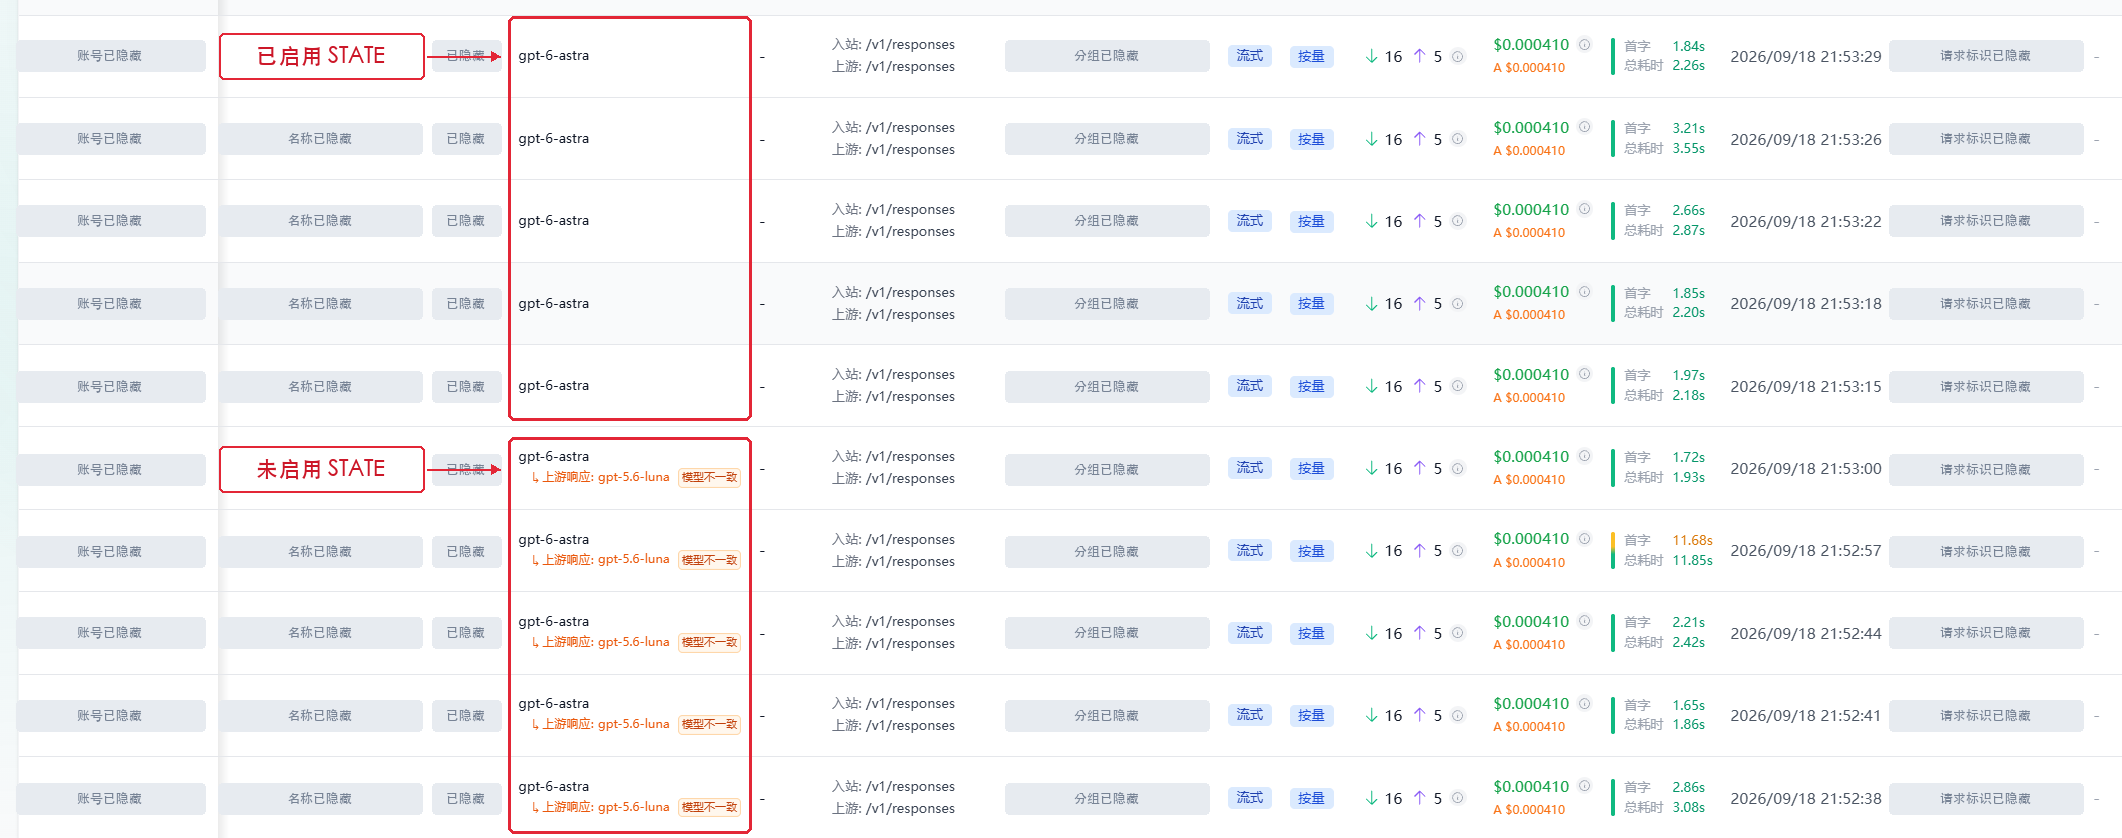
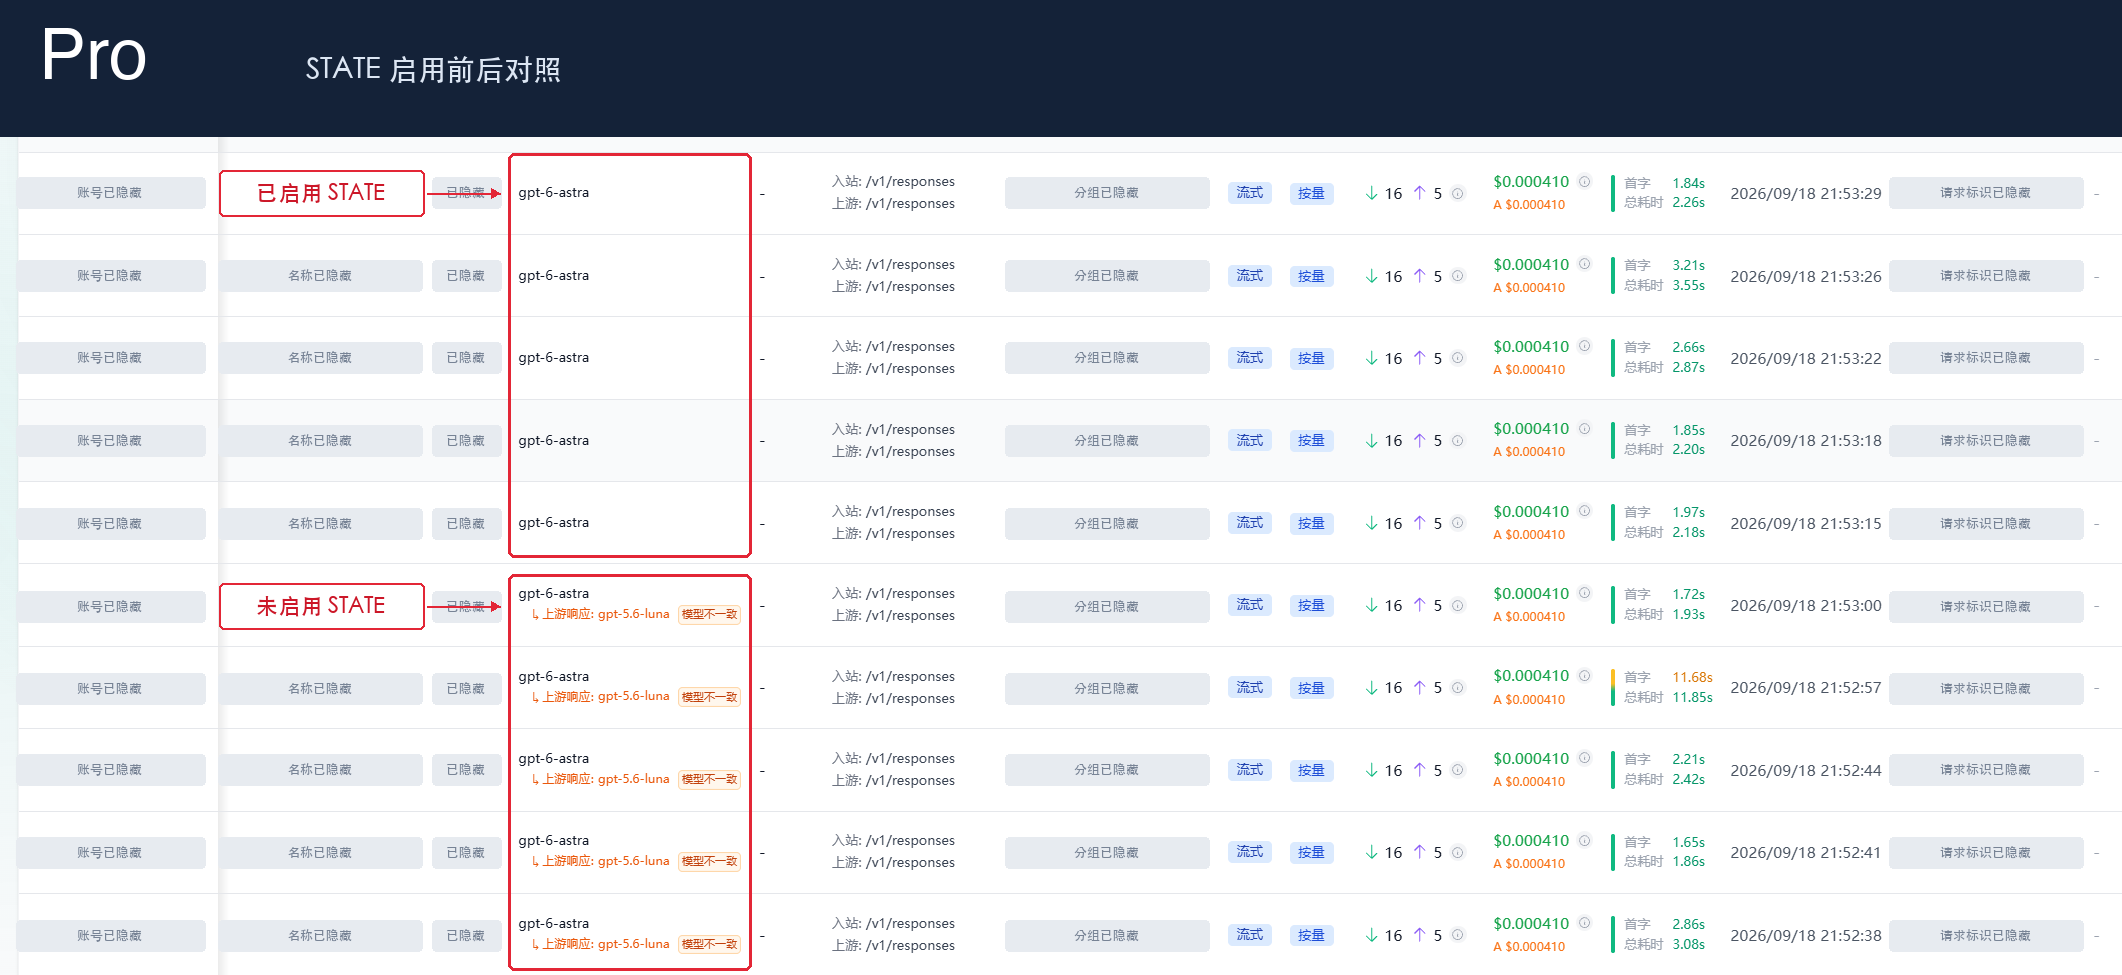
Replace screenshots with latest originals and large Team Pro headings

diff --git a/README.md b/README.md
@@ -24,17 +24,17 @@
 
 ## 使用前后，看图更直接
 
-下面是使用者提供的 **Team / Pro 对照截图**：原图上半部分为启用 STATE 后的请求，下半部分为未启用 STATE 的请求。保留原图的完整界面和上下顺序，用红框标出模型列，并标注“已启用 STATE / 未启用 STATE”。
+下面是这次更新的 **Team / Pro 原图**：原图上半部分为启用 STATE 后的请求，下半部分为未启用 STATE 的请求。保留原图的完整界面和上下顺序，用红框标出模型列，并标注“已启用 STATE / 未启用 STATE”。
 
-未启用时，日志显示请求 `gpt-6-astra`，上游响应为 `gpt-5.6-luna`，并标记“模型不一致”；启用后，这组截图里不再出现该标记。图片保持原始尺寸和界面布局，只添加红框、文字与必要的隐私遮挡；模型字段和请求记录顺序未改动。
+未启用时，日志显示请求 `gpt-6-astra`，上游响应为 `gpt-5.6-luna`，并标记“模型不一致”；启用后，这组截图里不再出现该标记。原图不缩放、不裁剪、不重排，顶部另加 Team / Pro 大标题，并添加红框、文字与必要的隐私遮挡；模型字段和请求记录顺序未改动。
 
 ### Team 对照
 
-![Team 原图：上半部分启用 STATE，下半部分未启用并显示上游 Luna 与模型不一致](docs/images/team-state-routing.png)
+![Team 原图：完整界面，上方启用 STATE、下方未启用并显示上游 Luna 与模型不一致](docs/images/team-state-routing.png)
 
 ### Pro 对照
 
-![Pro 原图：上半部分启用 STATE，下半部分未启用并显示上游 Luna 与模型不一致](docs/images/pro-state-routing.png)
+![Pro 原图：完整界面，上方启用 STATE、下方未启用并显示上游 Luna 与模型不一致](docs/images/pro-state-routing.png)
 
 ## 工作方式
 

diff --git a/docs/validation.md b/docs/validation.md
@@ -45,4 +45,4 @@ GOMAXPROCS=2 GOMEMLIMIT=2GiB GOGC=50 CGO_ENABLED=0 \
 
 ## README 对照图
 
-后续补充了使用者提供的 Team / Pro 界面对照截图。公开图片保留原始尺寸、完整界面及上下顺序，只添加红框和文字；遮挡了账号、渠道、分组及请求标识，并移除了源图元数据。截图说明依据使用者提供的启用前后顺序，独立于上述自动化验证记录。
+本版使用者提供的 Team / Pro 原图已替换旧图片。公开图片保留原图像素尺寸、完整界面及上下顺序，顶部增加 Team / Pro 标题栏，并添加红框和文字；遮挡了账号、渠道、分组及请求标识，并移除了源图元数据。截图说明依据使用者提供的启用前后顺序，独立于上述自动化验证记录。
